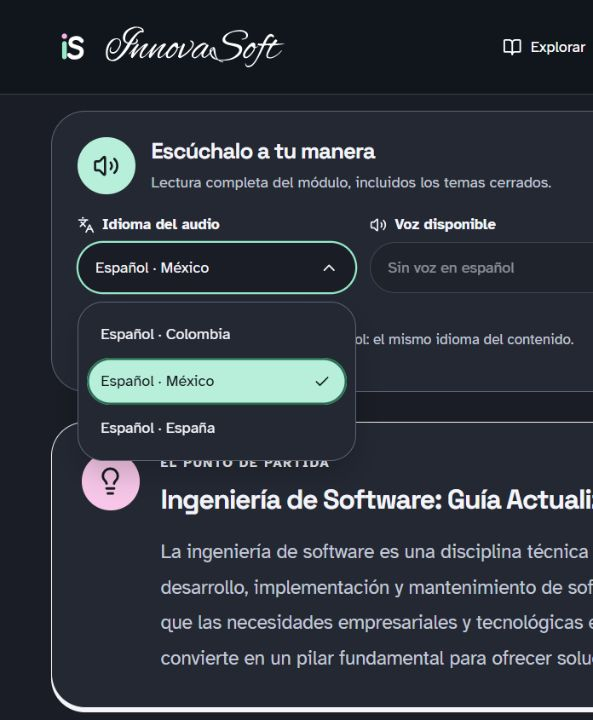
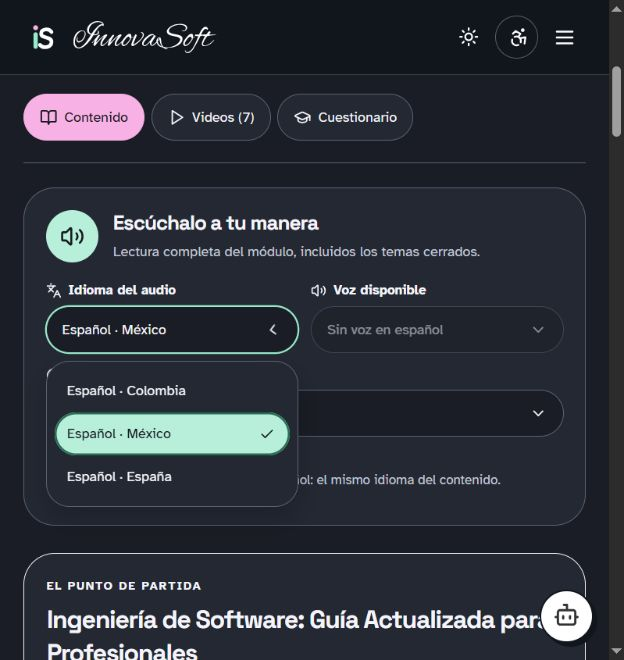
Finalize current screenshots and consistent demo frames

diff --git a/scripts/create-demo.py b/scripts/create-demo.py
@@ -5,6 +5,8 @@ frames = []
 for name in ['library', 'filter', 'saved', 'module', 'audio', 'content', 'quiz', 'accessibility', 'dark']:
     image = Image.open(media / f'{name}.jpg').convert('RGB')
     image.thumbnail((1012, 576), Image.Resampling.LANCZOS)
-    frames.append(image.quantize(colors=192, method=Image.Quantize.MEDIANCUT))
+    canvas = Image.new('RGB', (1012, 576), '#11151c')
+    canvas.paste(image, ((1012 - image.width) // 2, (576 - image.height) // 2))
+    frames.append(canvas.quantize(colors=192, method=Image.Quantize.MEDIANCUT))
 frames[0].save(media / 'demo.gif', save_all=True, append_images=frames[1:], duration=[2200,1600,1800,2200,2200,2600,2400,2400,1800], loop=0, optimize=True, disposal=2)
 print(f'GIF creado: {(media / "demo.gif").stat().st_size:,} bytes; {len(frames)} vistas reales')
